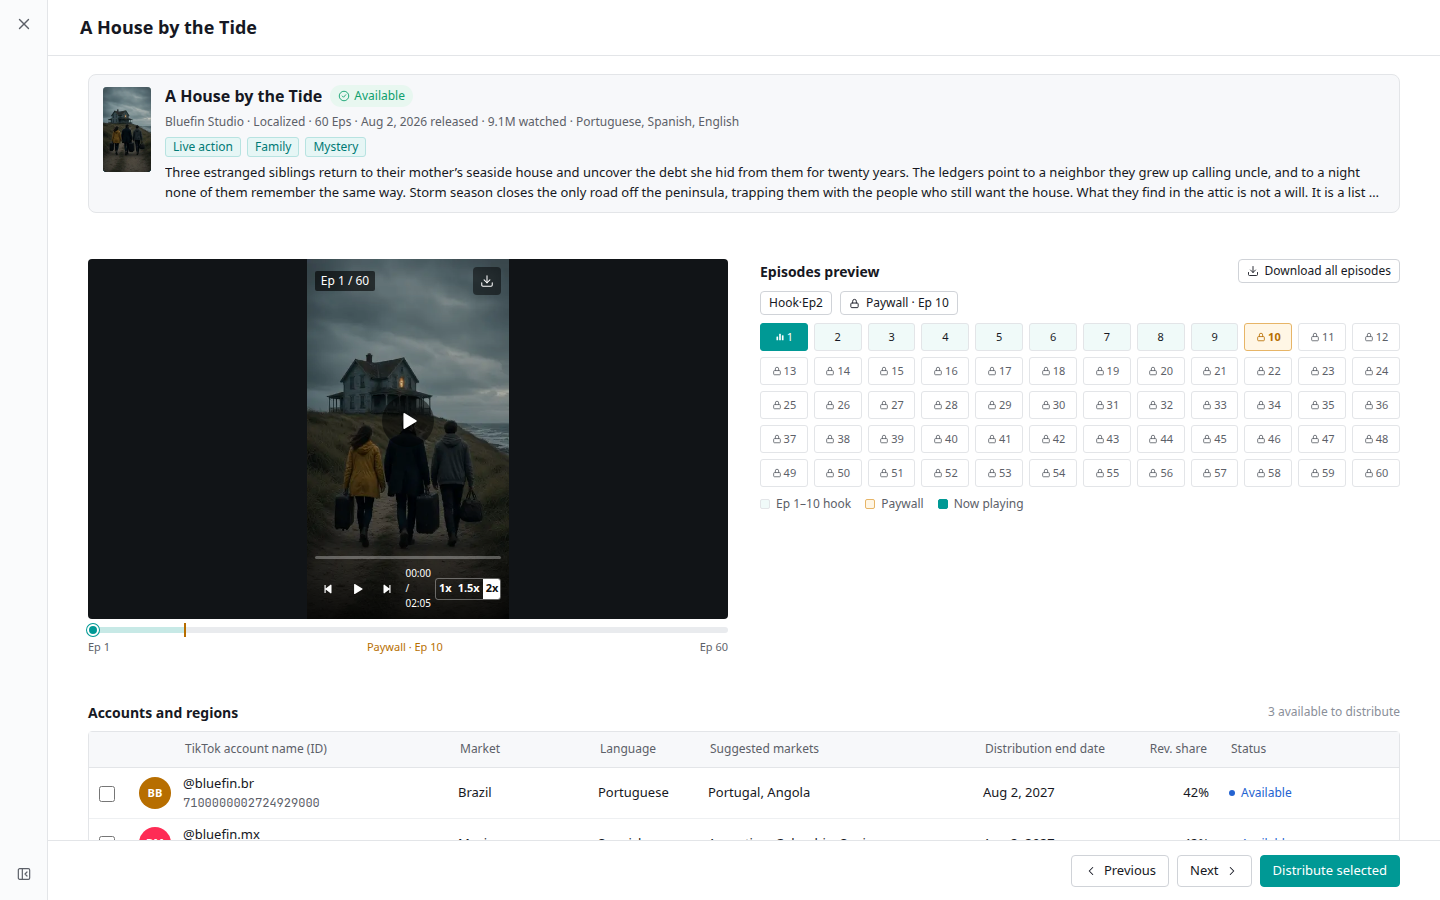
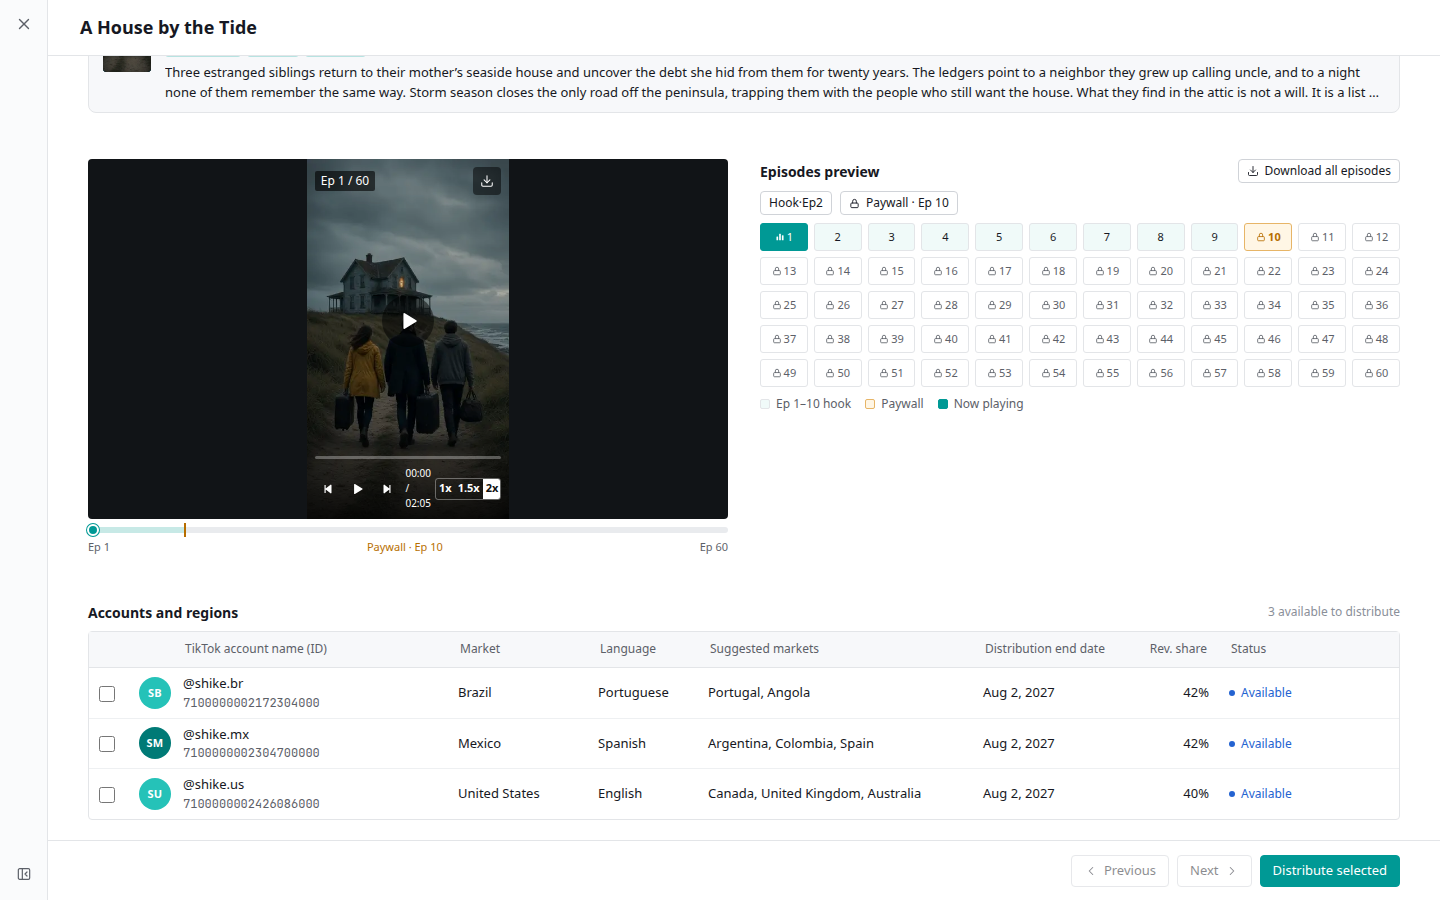
Sync prototype: reuse one TikTok account identity per market
Same market account keeps the same avatar, handle, and ID across dramas, Link view, and Drama view. Region, language, and rev share stay per-drama row data.

diff --git a/index.html b/index.html
@@ -842,18 +842,33 @@ const stmFinal = s => s.gross + s.adj;
 const colLabel = c => c.market + ' · ' + c.lang;
 const HOOK_EP = 2;
 const AV_BG = ['#FE2C55','#161823','#007A76','#2463D1','#7B5CFF','#0E9F6E','#B76E00','#25C2B8'];
+const TT_ACCOUNTS = Object.create(null);
+function ttAcctKey(c){
+  return String((c && (c.acct || c.code)) || 'XX').toUpperCase();
+}
 function ttAcct(c){
-  const holder = String((c && c.pub) || (ctrOf(c.ctr) || {}).holder || 'Studio').split(/[\s/-]/)[0].toLowerCase().replace(/[^a-z0-9]/g, '');
-  const handle = '@' + holder + '.' + String(c.code || 'xx').toLowerCase();
-  let h = 0; const s = String(c.id || '');
-  for (let i = 0; i < s.length; i++) h = (h * 33 + s.charCodeAt(i)) >>> 0;
-  const uid = String(7100000000000000000 + (h % 89999999999999999));
-  const initials = ((holder.slice(0, 1) + String(c.code || 'X').slice(0, 1)) || 'TT').toUpperCase();
-  return {handle, uid, initials, bg: AV_BG[h % AV_BG.length]};
+  const code = ttAcctKey(c);
+  if (TT_ACCOUNTS[code]) return TT_ACCOUNTS[code];
+  let h = 2166136261;
+  const s = 'tt-acct:' + code;
+  for (let i = 0; i < s.length; i++) h = Math.imul(h ^ s.charCodeAt(i), 16777619) >>> 0;
+  const slug = code.toLowerCase();
+  TT_ACCOUNTS[code] = {
+    code,
+    handle: '@shike.' + slug,
+    uid: String(7100000000000000000 + (h % 89999999999999999)),
+    initials: ('S' + code.slice(0, 1)).toUpperCase(),
+    bg: AV_BG[h % AV_BG.length]
+  };
+  return TT_ACCOUNTS[code];
 }
 function ttAvatar(c){
   const a = ttAcct(c);
   return `<span class="tt-av" style="background:${a.bg}" aria-hidden="true">${esc(a.initials)}</span>`;
+}
+function ttAcctCell(c){
+  const a = ttAcct(c);
+  return `<div class="tt-acct">${ttAvatar(c)}<div class="meta"><div class="cell-title ell" title="${esc(a.handle)}">${esc(a.handle)}</div><div class="cell-sub ell" title="${esc(a.uid)}"><span class="mono">${esc(a.uid)}</span> · ${esc(colLabel(c))}</div></div></div>`;
 }
 function stmWhen(s, hm, dayOff){
   if (!dayOff) return s.generated + ' ' + hm + ' UTC';
@@ -1640,8 +1655,8 @@ function inCreatedRange(l){
 function lvFiltered(){
   const f = UI.lv; const q = f.q.trim().toLowerCase();
   return D().links.filter(l => {
-    const c = colOf(l.col), k = ctrOf(c.ctr);
-    if (q && ![k.title, k.id, c.id, l.url, l.code, pubOf(c)].join(' ').toLowerCase().includes(q)) return false;
+    const c = colOf(l.col), k = ctrOf(c.ctr), a = ttAcct(c);
+    if (q && ![k.title, k.id, c.id, l.url, l.code, a.handle, a.uid].join(' ').toLowerCase().includes(q)) return false;
     if (f.status !== 'all' && l.status !== f.status) return false;
     if (f.market !== 'all' && c.market !== f.market) return false;
     if (!inCreatedRange(l)) return false;
@@ -1691,7 +1706,7 @@ function linkViewRow(l){
   const c = colOf(l.col), k = ctrOf(c.ctr);
   return `<tr data-row="${l.col}">
       <td><div class="drama-cell"><div class="thumb">${poster(k.id)}</div><div class="meta"><div class="cell-title ell" title="${esc(k.title)}">${k.title}${l.isNew ? ' <span class="tag teal">New</span>' : ''}</div><div class="cell-sub" style="white-space:normal">${k.episodes} eps · ${k.launch} · ${c.share}% share</div></div></div></td>
-      <td><div class="cell-title ell" title="${esc(pubOf(c))}">${esc(pubOf(c))}</div><div class="cell-sub ell">${esc(colLabel(c))}</div></td>
+      <td>${ttAcctCell(c)}</td>
       <td>${distUrlCell(l)}</td>
       <td>${linkStCell(l)}</td>
       <td class="num usd"><button type="button" class="num-link" data-act="link-details" data-col="${l.col}" data-tab="data" title="Open data details">${usd(l.iaa)}</button></td>
@@ -1705,7 +1720,7 @@ function dvNoLinkRow(c, k){
     : '<span class="faint">No link</span>';
   return `<tr>
       <td><div class="drama-cell"><div class="thumb">${poster(k.id)}</div><div class="meta"><div class="cell-title ell" title="${esc(k.title)}">${k.title}</div><div class="cell-sub" style="white-space:normal">${k.episodes} eps · ${k.launch} · ${c.share}% share</div></div></div></td>
-      <td><div class="cell-title ell" title="${esc(pubOf(c))}">${esc(pubOf(c))}</div><div class="cell-sub ell">${esc(colLabel(c))}</div></td>
+      <td>${ttAcctCell(c)}</td>
       <td><span class="faint">No link</span></td>
       <td><span class="faint">No link</span></td>
       <td class="num faint">—</td>
@@ -2222,7 +2237,7 @@ function exportDrawer(){
     footer:`<span class="grow">File: distribution-links-2026-11-03.${EX.fmt}</span><button class="btn" data-act="close-drawer">Cancel</button><button class="btn btn-primary" data-act="ex-run">${ic('download', 14)}Export</button>`};
 }
 function exScope(){ return EX.scope === 'filtered' ? lvFiltered() : D().links; }
-function exVal(l, f){ const c = colOf(l.col), k = ctrOf(c.ctr), a = ttAcct(c); return {drama:k.title, publisher:pubOf(c), contract:a.handle, collection:a.uid, market:c.market, lang:c.lang, link:l.url, status:LINK_ST[l.status][1], reason:l.reason, iaa:usd(l.iaa), est:usd(l.est), created:l.created}[f]; }
+function exVal(l, f){ const c = colOf(l.col), k = ctrOf(c.ctr), a = ttAcct(c); return {drama:k.title, publisher:a.handle, contract:k.id, collection:a.uid, market:c.market, lang:c.lang, link:l.url, status:LINK_ST[l.status][1], reason:l.reason, iaa:usd(l.iaa), est:usd(l.est), created:l.created}[f]; }
 function runExport(){
   const list = exScope();
   if (!list.length){ toast('No links in this scope. Choose another scope.', 'warn'); return; }
